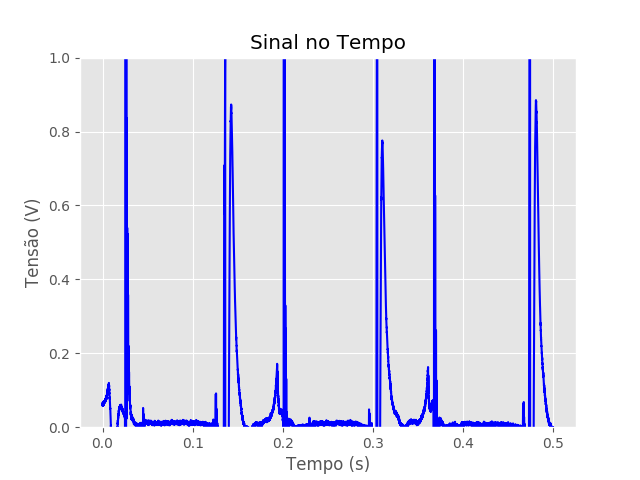
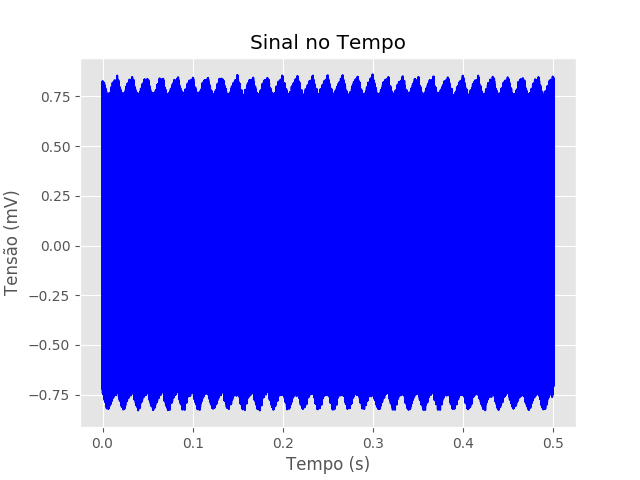
Finished tests

diff --git a/channel.py b/channel.py
@@ -19,15 +19,14 @@ class Channel():
             self.frequency = 1
 
     def show(self, save_fig=True):
-        auto_correlation = np.correlate(self.signal, self.signal, mode='full')
         # limiting signal by its period
-        y = self.signal[:math.ceil(max(auto_correlation)/self.frequency)].copy()
+        y = self.signal[:int(self.get_period()*self.sample_rate/self.duration)].copy()
         x = np.linspace(0, self.get_period(), num=len(y))
         plt.plot(x, y, self.color)
         plt.xlabel("Tempo (s)")
-        plt.ylabel("Tensão (V)")
+        plt.ylabel("Tensão (mV)")
         plt.title("Sinal no Tempo")
-        plt.ylim(0, 1)
+        plt.ylim(-1.2, 1.2)
         plt.grid(True)
         if(save_fig):
             plt.savefig('imgs/time_plot.png')
@@ -36,15 +35,14 @@ class Channel():
             plt.show()
 
     def show_entire_signal(self, save_fig=True):
-        auto_correlation = np.correlate(self.signal, self.signal, mode='full')
         # limiting signal by its period
         y = self.signal
         x = np.linspace(0, self.duration, num=len(y))
         plt.plot(x, y, self.color)
         plt.xlabel("Tempo (s)")
-        plt.ylabel("Tensão (V)")
+        plt.ylabel("Tensão (mV)")
         plt.title("Sinal no Tempo")
-        plt.ylim(0, 1)
+        #plt.ylim(0, 1)
         plt.grid(True)
         if(save_fig):
             plt.savefig('imgs/full_plot.png')
@@ -53,13 +51,12 @@ class Channel():
             plt.show()
 
     def show_scaled(self, save_fig=True):
-        auto_correlation = np.correlate(self.signal, self.signal, mode='full')
         # limiting signal by its period
-        y = self.signal[:math.ceil(max(auto_correlation)/self.frequency)].copy()
+        y = self.signal[:int(self.get_period()*self.sample_rate/self.duration)].copy()
         x = np.linspace(0, self.get_period(), num=len(y))
         plt.plot(x, y, self.color)
         plt.xlabel("Tempo (s)")
-        plt.ylabel("Tensão (V)")
+        plt.ylabel("Tensão (mV)")
         plt.title("Sinal no Tempo")
         plt.grid(True)
         if(save_fig):

diff --git a/controller.py b/controller.py
@@ -8,26 +8,22 @@ import queue
 import argparse
 import test as live
 
-def int_or_str(text):
-    """Helper function for argument parsing."""
-    try:
-        return int(text)
-    except ValueError:
-        return text
-
 
 class controller():
     def __init__(self):
         self.RATE = 44100
         self.duration = 0.5 #sec
         sd.default.samplerate = self.RATE
-        sd.default.channels = 1
-        myrecording = sd.rec(int(self.duration * self.RATE))
+        sd.default.channels = 2
+        myrecording = sd.rec(int(self.duration * self.RATE), dtype='float64')
         print('Recording...')
         sd.wait()
-        myrecording = np.reshape(myrecording, len(myrecording)*len(myrecording[0]))
-        self.signal = myrecording
-        self.ch = Channel(1, 'b-', self.signal, self.RATE, len(self.signal)/self.RATE)
+        myrecording = np.array(myrecording)
+        ch1 = myrecording[:,0]
+        ch2 = myrecording[:,1]
+        self.signal = ch1 - ch2
+        print(myrecording)
+        self.ch = Channel(1, 'b-', self.signal, self.RATE, self.duration)
 
     def audio_callback(self, indata, frames, time, status):
         """This is called (from a separate thread) for each audio block."""
@@ -51,7 +47,7 @@ class controller():
         self.ch.show_scaled()
 
     def live_plot(self):
-        live.live_plot()
+        live.live()
 
     def show_hist(self):
         self.ch.compute_histogram()
@@ -72,4 +68,4 @@ class controller():
         sd.wait()
         myrecording = np.reshape(myrecording, len(myrecording)*len(myrecording[0]))
         self.signal = myrecording
-        self.ch = Channel(1, 'b-', self.signal, self.RATE, len(self.signal)/self.RATE)
+        self.ch = Channel(1, 'b-', self.signal, self.RATE, self.duration)

diff --git a/test.py b/test.py
@@ -1,14 +1,15 @@
-#!/usr/bin/env python3
-"""Plot the live microphone signal(s) with matplotlib.
+def live():
+    #!/usr/bin/env python3
+    """Plot the live microphone signal(s) with matplotlib.
 
-Matplotlib and NumPy have to be installed.
+    Matplotlib and NumPy have to be installed.
 
-"""
-import argparse
-import queue
-import sys
+    """
+    import argparse
+    import queue
+    import sys
 
-def live_plot():
+
     def int_or_str(text):
         """Helper function for argument parsing."""
         try:
